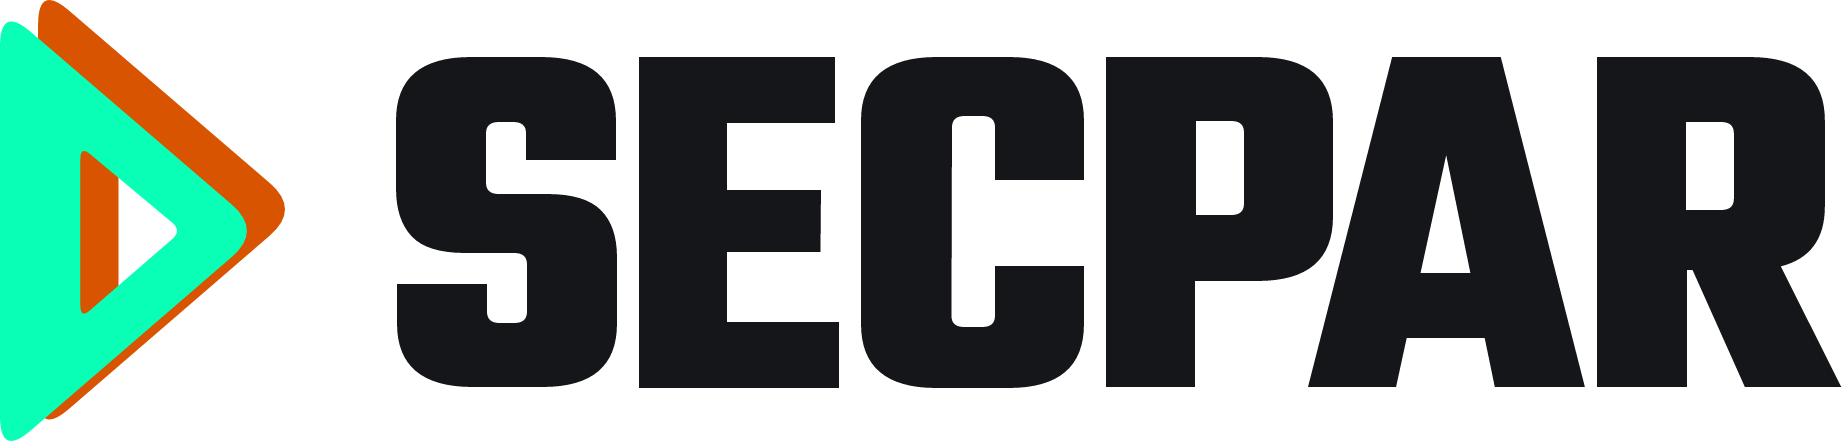
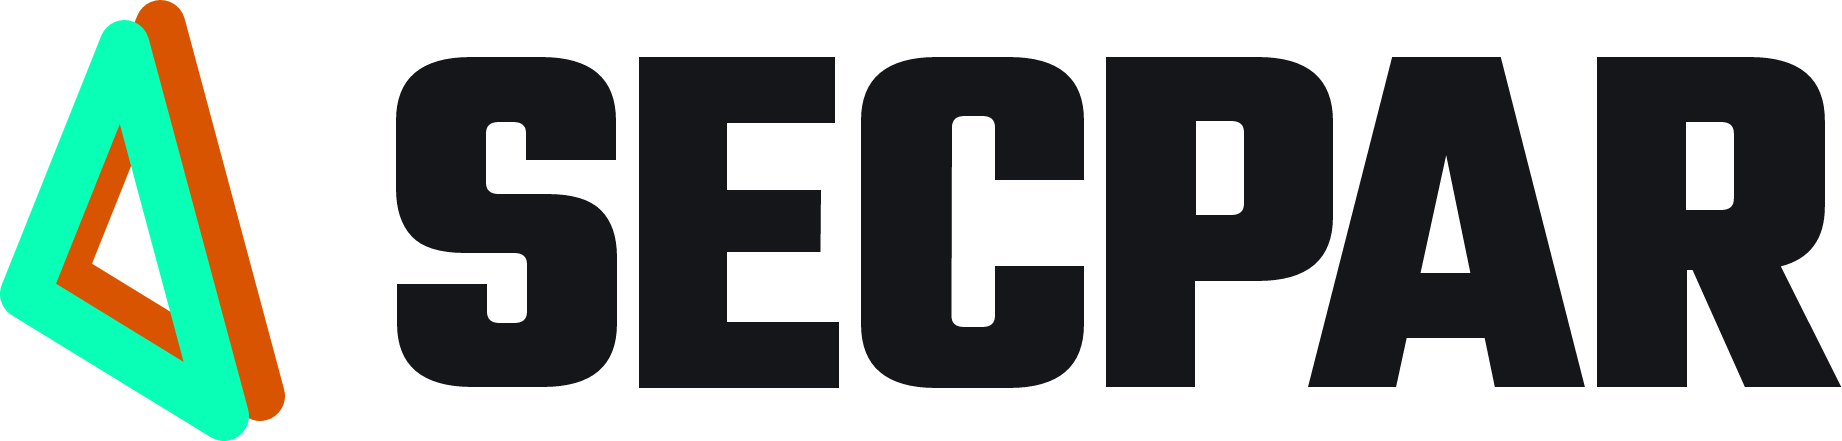
Correct triangle plane and give all three sides a uniform stroke

Changed region(s): [[0.0, 0.0, 0.1547, 1.0]]

diff --git a/assets/branding/README.md b/assets/branding/README.md
@@ -2,7 +2,7 @@
 
 The letterforms are sourced from the outlined wordmark embedded in https://parsec.app/ (retrieved 2026-11-04), matching the supplied reference. The full original font family has not been verified. Website CSS declares Rubik, Barlow, Fira Mono and Inter; those are not treated as identification of the logo typeface.
 
-SECPAR rearranges the original six letterforms, with adjusted kerning. The symbol is a rounded, right-facing triangular ribbon. Its combined symbol bounds are 285 × 441 units, matching the supplied Parsec symbol footprint and direction. Its colours are RGB complements of the reference: pink #F50049 becomes mint #0AFFB6; blue #26ABFF becomes orange #D95400. Mint is in front and orange behind. The companion apps remain independently named Secpar.
+SECPAR rearranges the original six letterforms, with adjusted kerning. The symbol is a rounded triangle on the same diagonal plane as the reference. Each side uses a 50-unit stroke, avoiding separately drawn inner/outer triangles and uneven band widths. The base follows slope 122/199; the rear layer uses the reference’s (36, -20) offset. Nominal combined stroke bounds remain 285 × 441 units. Its colours are RGB complements of the reference: pink #F50049 becomes mint #0AFFB6; blue #26ABFF becomes orange #D95400. Mint is in front and orange behind. The companion apps remain independently named Secpar.
 
 SecparWordmark.otf is a six-letter logo font assembled from these outlines, mapping S/E/C/P/A/R and lowercase equivalents. It is not a full alphabet or the original Parsec font file. Use the SVG wordmark for the exact final spacing. Interface body text remains the platform font.
 
